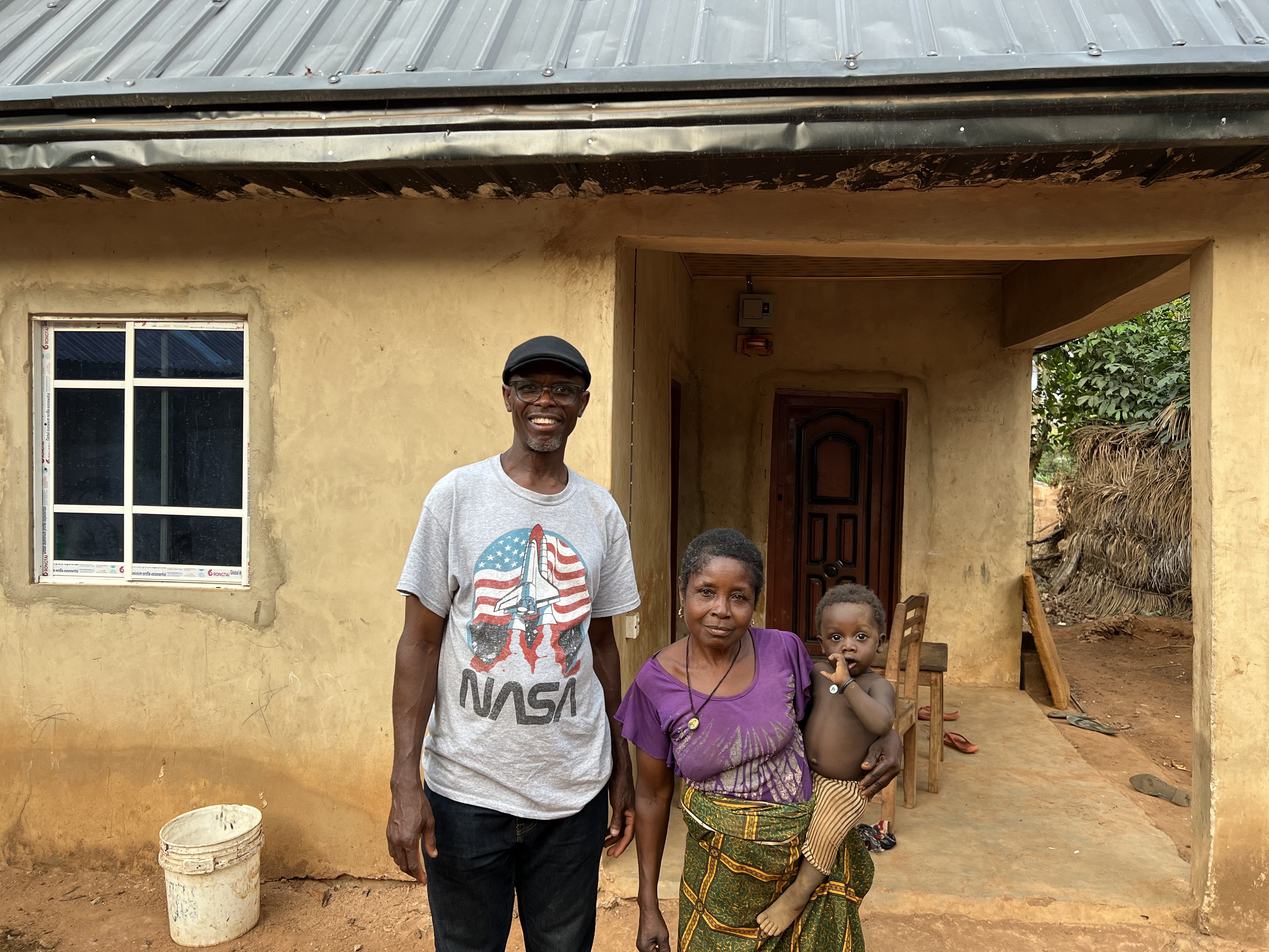
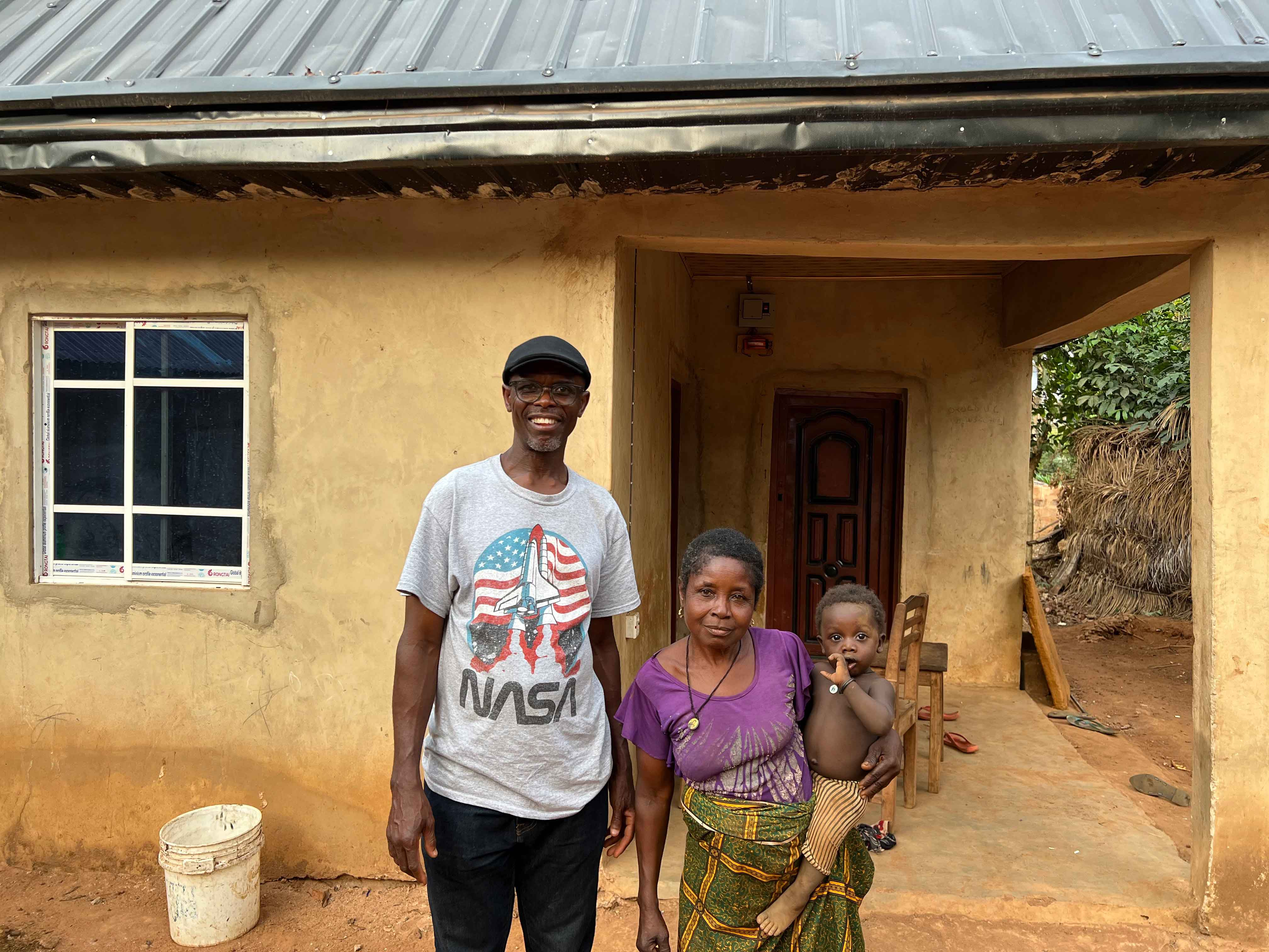
Reduced the size of all photo

Changed region(s): [[0.5312, 0.8393, 0.6875, 1.0], [0.9062, 0.3108, 0.9375, 0.3419]]

diff --git a/hthci-website/src/component/pages/Home.jsx b/hthci-website/src/component/pages/Home.jsx
@@ -25,17 +25,17 @@ function Home() {
                         </strong>
                         
                     </span>{" "}
-                    was born out of a need to improve the academic outcome of
-                    children and young adults in rural communities and to
-                    improve the overall health of these communities. We provide
-                    tutoring and mentorship for youths who are negatively
-                    impacted by the teacher strikes and shortcomings in the
-                    curriculum delivered to them so that they can reach their
-                    full educational potential. We also deliver health services
-                    to this community through annual yearly checkups by trained
-                    health care professionals and activities that promote
-                    well-being.
-                </p>
+                    was born out of a need to improve the
+                    academic outcome of children and young adults in rural communities and to improve the
+                    overall health of these communities. We began by providing tutoring and mentorship for
+                    youths who are negatively impacted by the teacher strikes and shortcomings in the
+                    curriculum delivered to them so that they can reach their full educational potential. We
+                    also deliver health services to this community through annual yearly check-ups by
+                    trained health care professionals and activities that promote well-being. We have
+                    expanded our target areas by serving our community in the following fields: After School
+                    Tutoring, Scholarships, Public Health, Human Development, and Nature Based
+                    Solutions.
+                </p>  
             </div>
             <div className="text-center">
                 <h2>Our Projects</h2>

diff --git a/hthci-website/src/component/pages/Team.jsx b/hthci-website/src/component/pages/Team.jsx
@@ -13,7 +13,7 @@ function Team() {
                     <div className="container">
                         <div className="imgBox">
                             <img
-                                src="/images/01corte.jpg"
+                                src="/images/teamPaul.jpg"
                                 alt="paul pic"
                                 style={{ height: "255px", width: "375px" }}
                             />
@@ -59,7 +59,7 @@ function Team() {
 
                         <div className="imgBox">
                             <img
-                                src="/images/02corte.jpg"
+                                src="/images/teamVeronica.jpg"
                                 alt="veronica pic"
                                 style={{ height: "255px", width: "375px" }}
                             />
@@ -68,7 +68,7 @@ function Team() {
                     <div className="container">
                         <div className="imgBox">
                             <img
-                                src="/images/03.jpg"
+                                src="/images/teamChidiebere.jpg"
                                 alt="Chidiebere img"
                                 style={{ height: "245px", width: "375px" }}
                             />
@@ -115,7 +115,7 @@ function Team() {
                     <div className="container">
                         <div className="imgBox">
                             <img
-                                src="/images/05corte.jpeg"
+                                src="/images/teamIkenna.jpg"
                                 alt="Ikenna pic"
                                 style={{ height: "265px", width: "385px" }}
                                 height="265px"

diff --git a/hthci-website/src/index.css b/hthci-website/src/index.css
@@ -21,7 +21,7 @@ html,body{
     text-align: center;
     color: rgb(67, 152, 47);
     font-size: 45px;
-}
+} 
 
 .intro-wrap {
     font-weight: 500;
